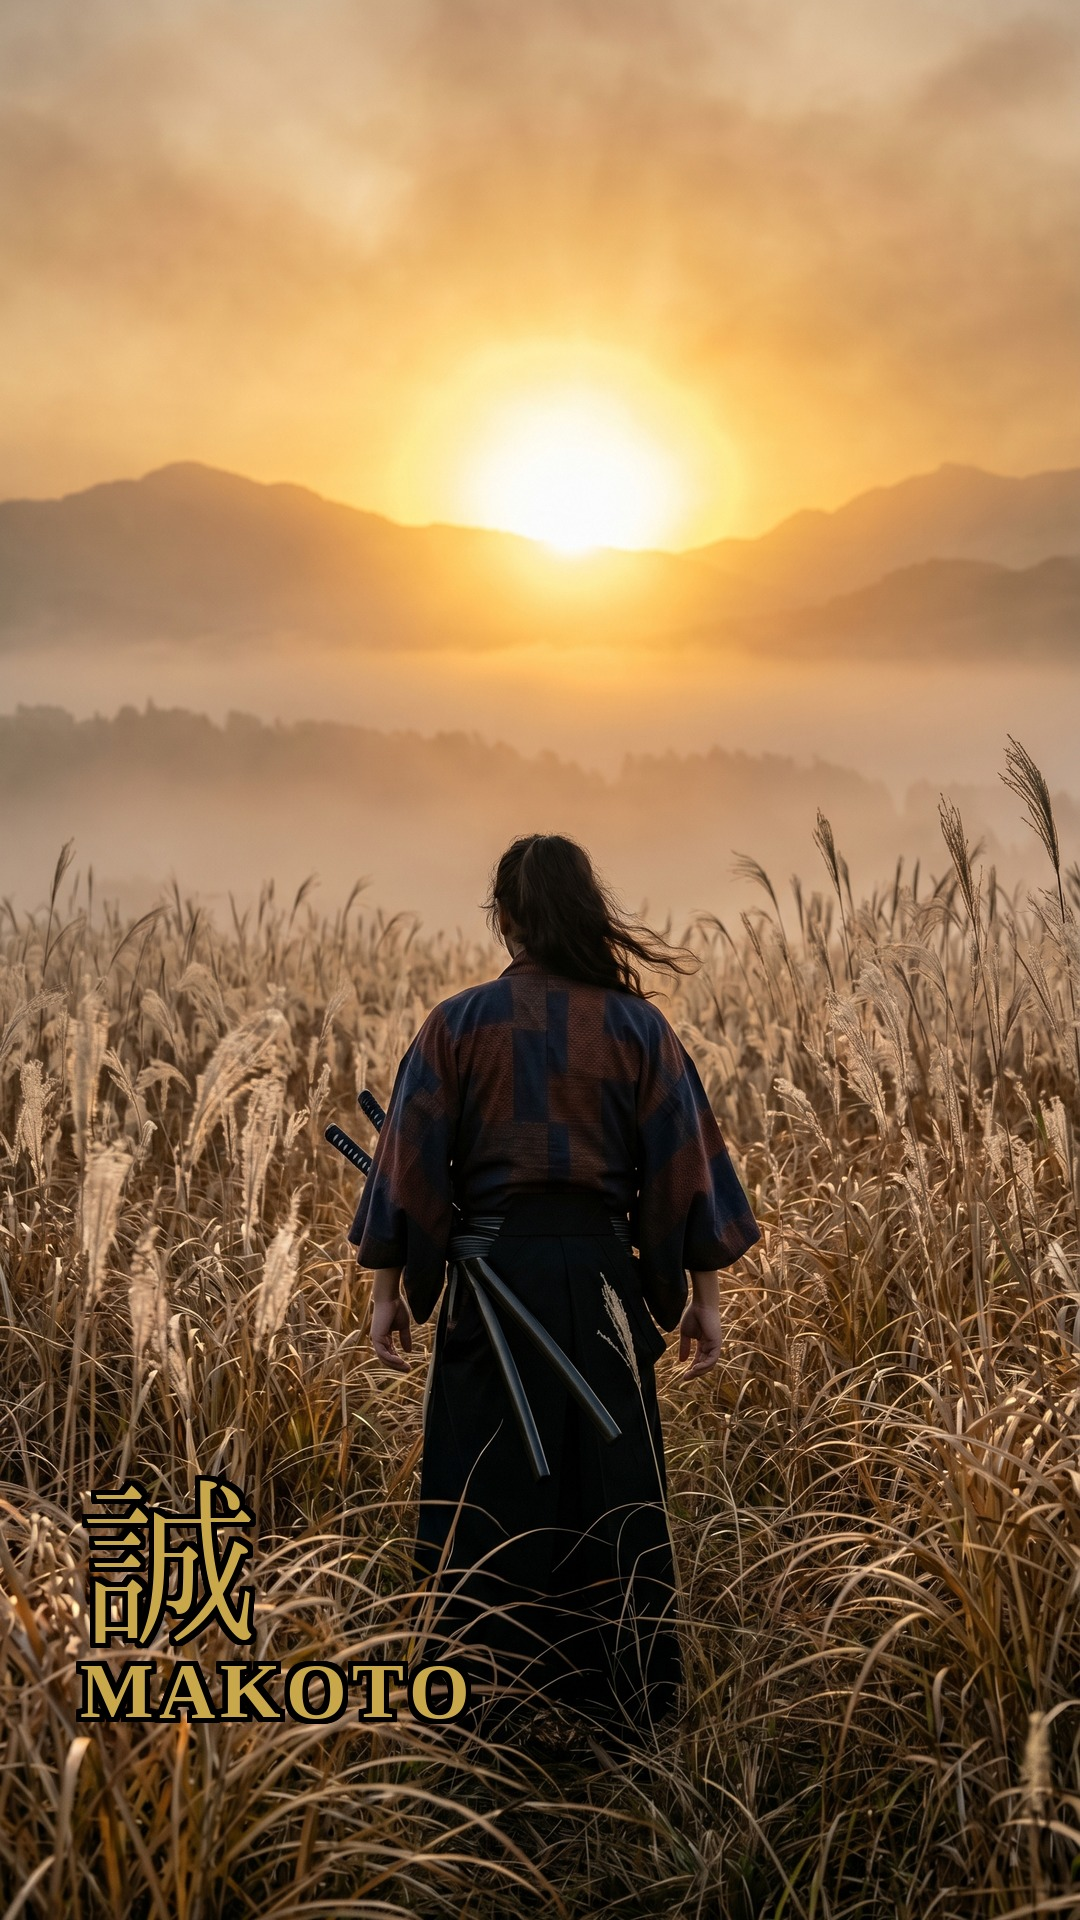
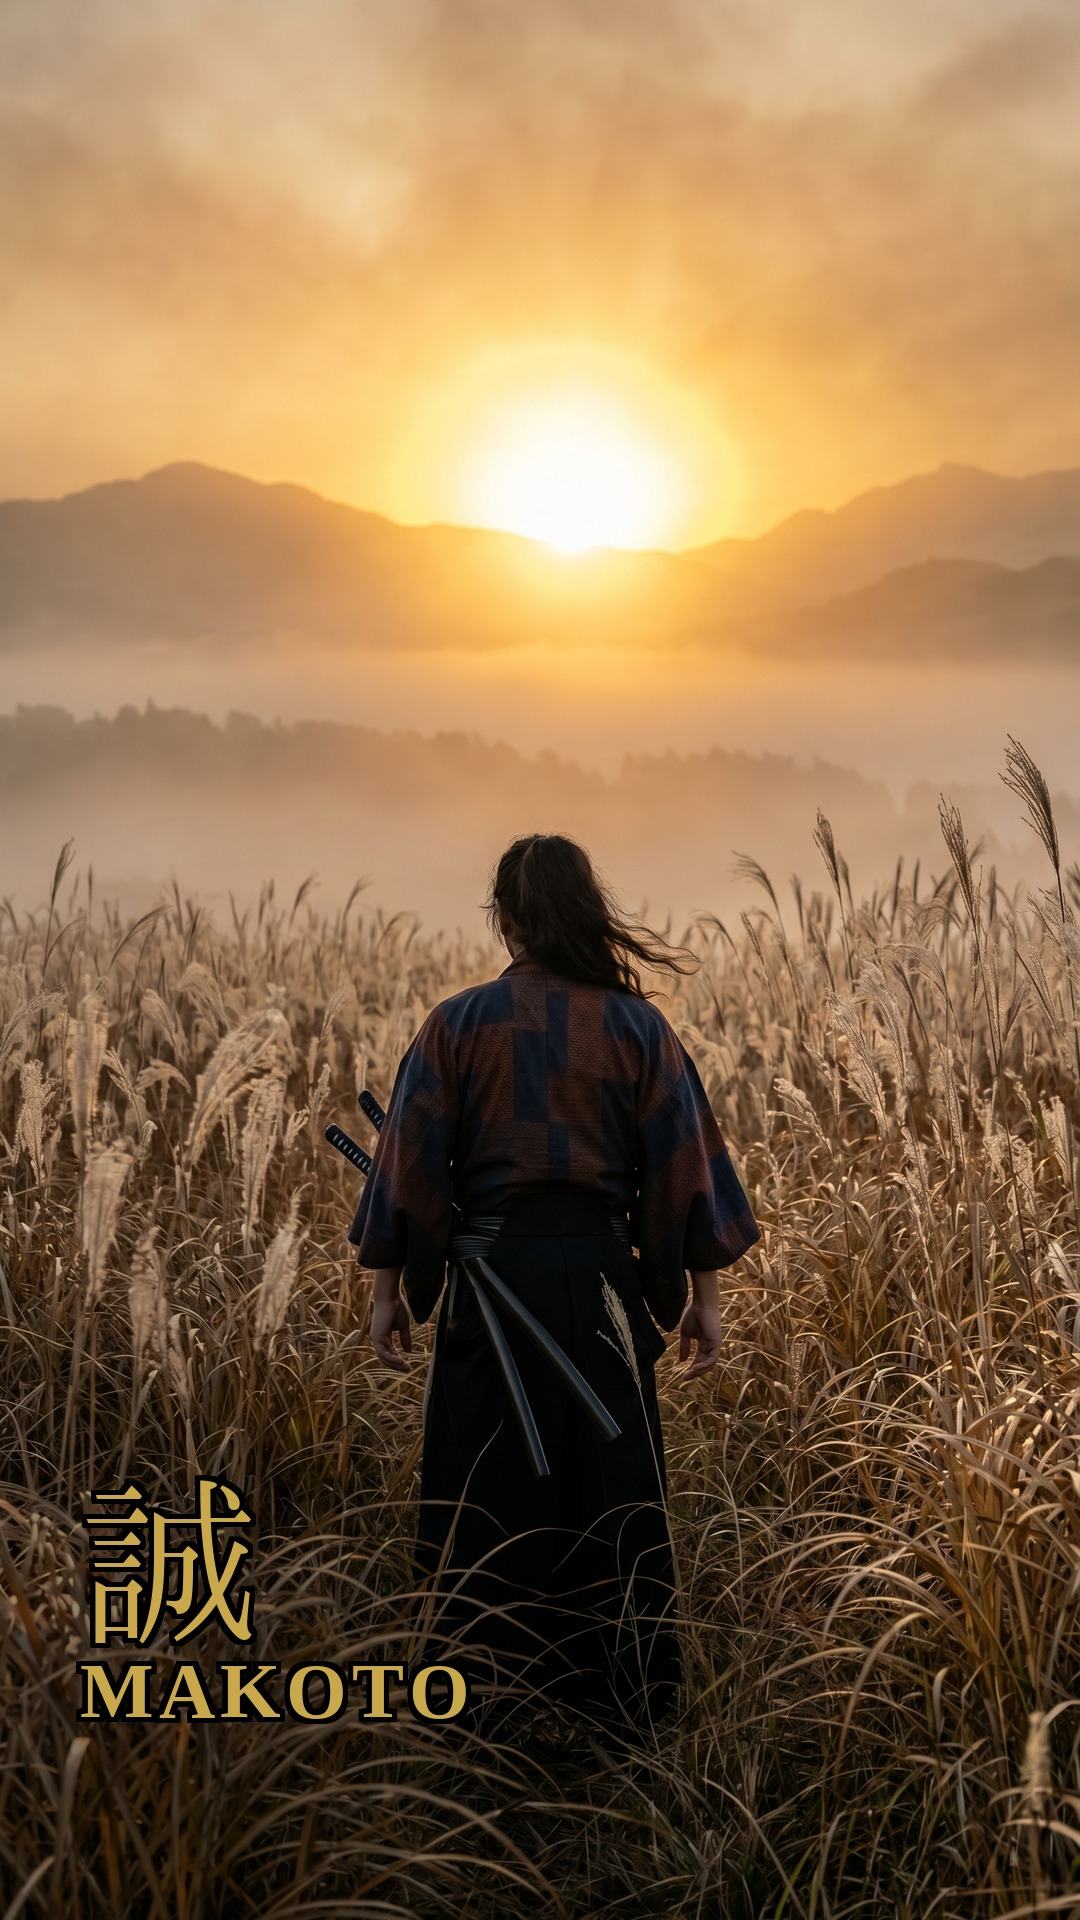
stillwave: darken lower-left of MAKOTO Shorts cover for text legibility

diff --git a/stillwave/assets/makoto-compose-shorts-cover.py b/stillwave/assets/makoto-compose-shorts-cover.py
@@ -11,7 +11,8 @@ Output: makoto-the-last-samurai-shorts-cover.jpg (1080×1920, JPEG q92)
 """
 
 from pathlib import Path
-from PIL import Image, ImageDraw, ImageFont
+from PIL import Image, ImageDraw, ImageFilter, ImageFont
+import numpy as np
 
 HERE = Path(__file__).parent
 SRC  = HERE / "makoto-the-last-samurai-shorts-source.jpg"
@@ -70,8 +71,27 @@ def draw_with_shadow(draw, xy, text, font, fill, shadow_r=5):
     draw.text(xy, text, font=font, fill=fill)
 
 
+def darken_corner(bg: Image.Image) -> Image.Image:
+    """Soft radial darken on lower-left so gold text reads cleanly."""
+    w, h = bg.size
+    cx, cy = 240, 1700           # darkness anchor inside text zone
+    radius = 880                 # falloff radius
+    ys, xs = np.mgrid[0:h, 0:w]
+    dist = np.sqrt((xs - cx) ** 2 + (ys - cy) ** 2) / radius
+    strength = np.clip(1.0 - dist, 0, 1) ** 1.4
+    alpha = (strength * 165).astype(np.uint8)     # peak ~65% black
+    veil = Image.new("RGBA", (w, h), (0, 0, 0, 0))
+    veil_arr = np.array(veil)
+    veil_arr[:, :, 3] = alpha
+    veil = Image.fromarray(veil_arr, "RGBA").filter(ImageFilter.GaussianBlur(40))
+    bg = bg.convert("RGBA")
+    bg.alpha_composite(veil)
+    return bg.convert("RGB")
+
+
 def main() -> None:
     bg = load_source()
+    bg = darken_corner(bg)
     draw = ImageDraw.Draw(bg)
 
     kanji_font  = ImageFont.truetype(KANJI_FONT_PATH,  KANJI_SIZE)
